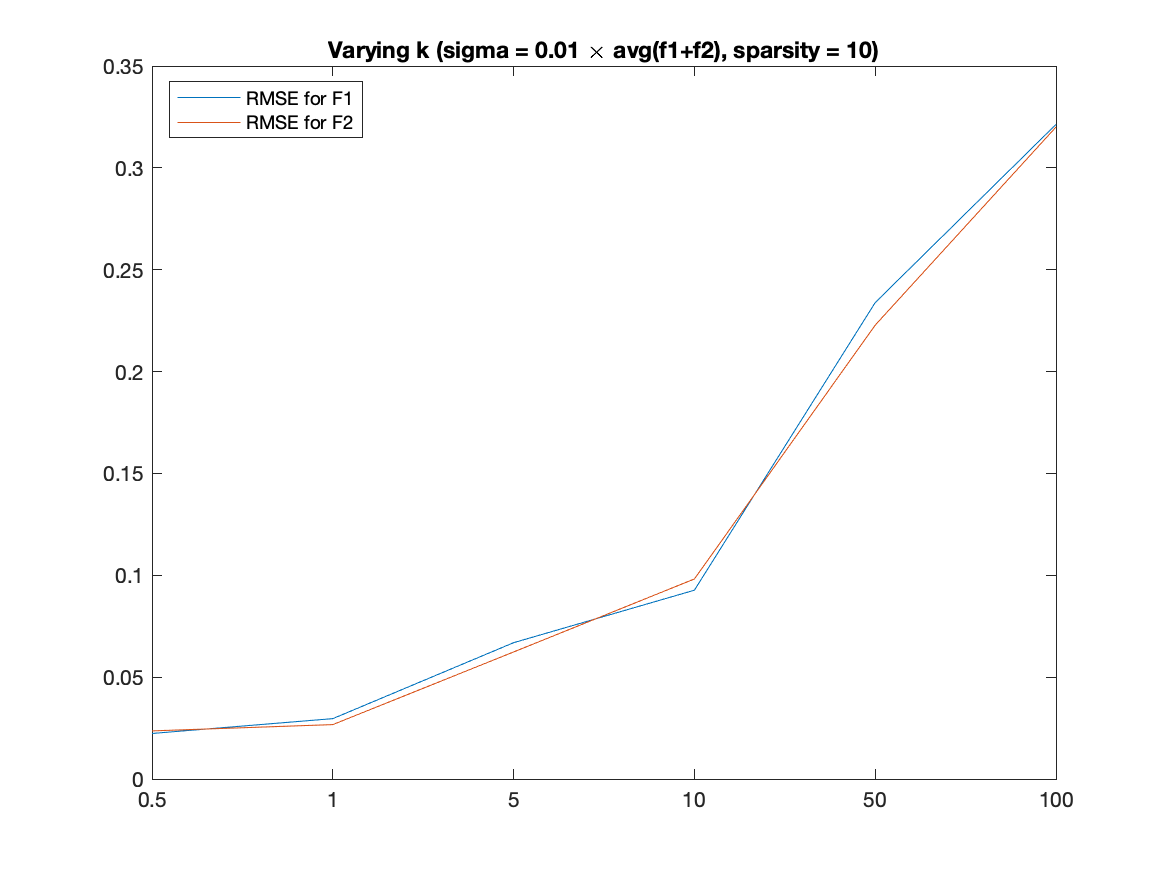
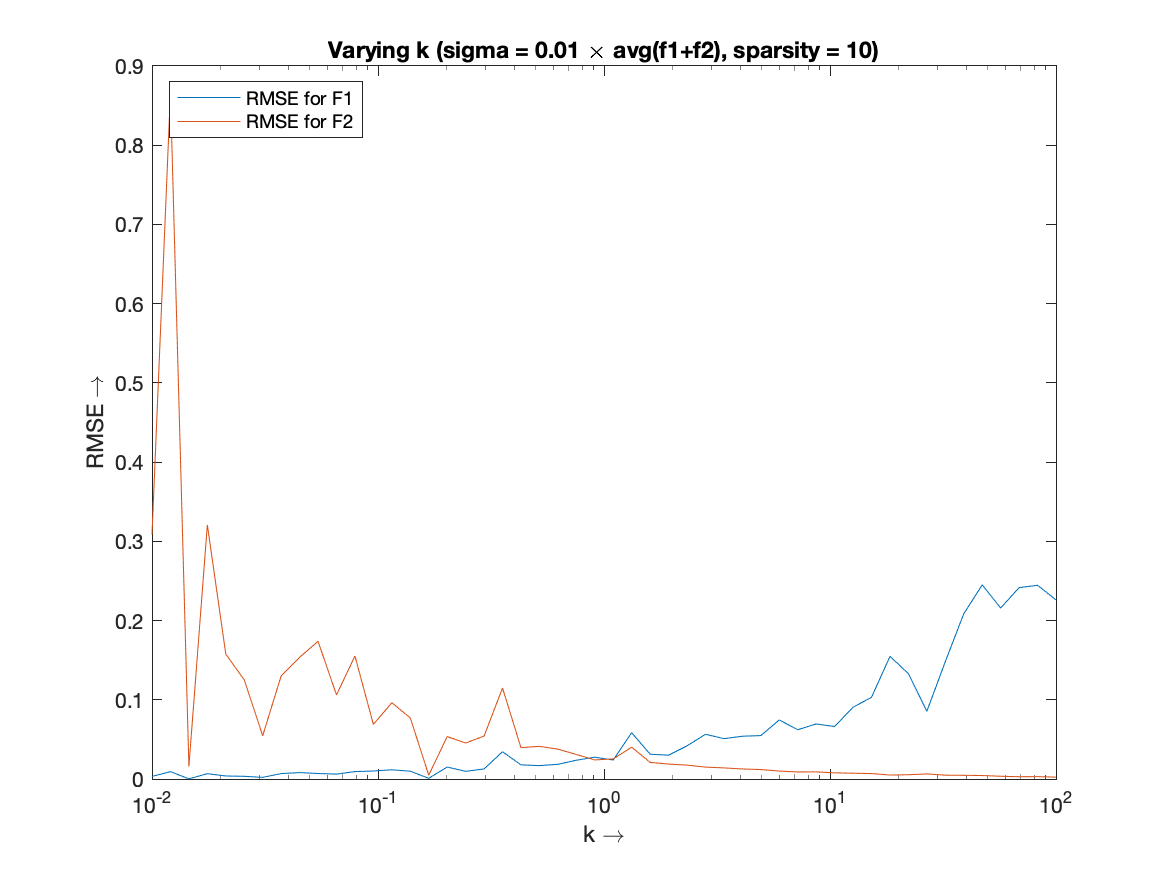
q1,2,5

diff --git a/4/HW4/q1.m b/4/HW4/q1.m
@@ -4,7 +4,7 @@ close all; clear; clc;
 k = 1;
 n = 256;
 spar = 16;
-eps = [1e3 1e2 1 1e-1 1e-2 1e-3 1e-4 1e-5 1e-6];
+eps = [1e3 1e2 1 1e-1 1e-2 1e-3 1e-4 1e-5];
 sigma=0.01;
 
 for e=eps
@@ -22,8 +22,7 @@ k=1;
 n=256;
 spar=10;
 eps = 1e-3;
-sigma=[0.0001, 0.0005, 0.001, 0.005, 0.01, 0.02];
-% sigma = 0.01:0.01:1;
+sigma = 0.01:0.01:0.5;
 rmse = zeros(6,2);
 
 i = 1;
@@ -37,16 +36,16 @@ end
 plot(rmse);
 title('Varying sigma, Fixed sparsity (=10)');
 legend('RMSE for F1', 'RMSE for F2', 'location', 'northwest');
-xticks([1 2 3 4 5 6]);
-xticklabels({'0.0001','0.0005','0.001','0.005','0.01','0.02'});
+xlabel("\times avg(f_1 + f_2) \rightarrow");
+ylabel("RMSE \rightarrow");
 saveas(gcf,'image1.png','png');
 
 
 %% (b) Varying \sigma fixed sparsity
 k=1;
 n=256;
-spar=[5, 10, 15, 20, 30, 50];
-% spar = 5:1:30;
+% spar=[5, 10, 15, 20, 30, 50];
+spar = 5:1:50;
 sigma=0.01;
 eps = 1e-3;
 rmse = zeros(6,2);
@@ -62,14 +61,14 @@ end
 plot(rmse);
 title('Varying sparsity, Fixed sigma (0.01 \times avg(f1+f2))');
 legend('RMSE for F1', 'RMSE for F2', 'location', 'northwest');
-xticks([1 2 3 4 5 6]);
-xticklabels({'5','10','15','20','30','50'});
+xlabel("Sparsity \rightarrow")
+ylabel("RMSE \rightarrow");
 saveas(gcf,'image2.png','png');
 
 
 
 %% (b) Varying k
-k=[0.5, 1, 5, 10, 50, 100];
+k = logspace(-2,2);
 n=256;
 spar=10;
 eps = 1e-3;
@@ -84,11 +83,9 @@ for s=k
     i = i+1;
 end
 
-plot(rmse);
+semilogx(k,rmse);
 title('Varying k (sigma = 0.01 \times avg(f1+f2), sparsity = 10)');
 legend('RMSE for F1', 'RMSE for F2', 'location', 'northwest');
-xticks([1 2 3 4 5 6]);
-xticklabels({'0.5','1','5','10','50','100'});
+ylabel("RMSE \rightarrow");
+xlabel("k \rightarrow")
 saveas(gcf,'image3.png','png');
-
-close all;

diff --git a/4/HW4/q1solve.m b/4/HW4/q1solve.m
@@ -17,7 +17,7 @@ function [fo1, fo2, rmse1, rmse2] = q1solve(n,spar,k,eps, sigma_k)
     
     % Generating noise
     sigma = sigma_k*mean(f1+f2,'all');
-    gm = gmdistribution(0,sigma);
+    gm = gmdistribution(0,abs(sigma));
     eta = random(gm,n);
     
     

diff --git a/4/HW4/report.md b/4/HW4/report.md
@@ -14,7 +14,7 @@
 
 **Varying $\sigma$ and fixed sparsity: **
 
-Here, x-axis has the factor k. Where $\sigma = k \times avg(f_1+f_2)$
+Here, x-axis has the factor $\tau$. Where $\sigma = \tau \times avg(f_1+f_2)$
 
 <img src="images/image1.png" style="zoom:40%;"/>
 
@@ -33,6 +33,80 @@ Here, x-axis has the factor k. Where $\sigma = k \times avg(f_1+f_2)$
 
 
 ### Q2
+
+Paper: [CoSaMP: Iterative signal recovery from incomplete and inaccurate samples](https://arxiv.org/abs/0803.2392)
+
+Author: [D. Needell](https://arxiv.org/search/math?searchtype=author&query=Needell%2C+D), [J. A. Tropp](https://arxiv.org/search/math?searchtype=author&query=Tropp%2C+J+A)
+
+Journal reference: Appl. Comput. Harmon. Anal., Vol. 26, pp. 301-321, 2008
+
+
+
+#### Algorithm 
+
+-----
+
+**CoSaMP($\Phi, u, s$)**
+
+**Input**: Sampling matrix $\phi$, noisy sample vector $u$, sparsity level $s$.
+
+**Output**: An s-sparse approximation $a$ of the target signal
+
+1. $a^0 \gets 0\\$                                                        // Initial approximation
+
+2. $v \gets u\\$                                                         // Current samples = input samples
+
+3. $k \gets 0\\$
+
+4. **repeat**
+
+   1. $k \gets k + 1$
+   2. $y \gets \Phi^*v$ 											// Form signal proxy
+   3. $\Omega \gets supp(y_{2s})$ 				                // Identify large components
+   4. $T \gets \Omega \cup supp(a^{k-1})$			           // Merge supports
+   5. $b|_T \gets \Phi^\dagger_T u$					                    // Signal estimation by least-squares
+   6. $b|_{T^c} \gets 0$
+   7. $a \gets b_s$												// Prune to obtain next approx
+   8. $v \gets u - \Phi a^k$								     // Update current samples
+
+   **until** haling criterion *true*
+
+-----
+
+
+
+<u>Def.</u> *quasi-norm*: 
+$$
+||x||_0 = |supp(x)| = |\{j : x_j \neq 0\}|
+$$
+<u>Def.</u> 
+$$
+x|_T = x_i\ \text{if}\ i \in T \ \text{else}\ 0
+$$
+$x|_T$ Is treated as an element of the vector space $\C^T$. And the restriction $\Phi_T$ of the sampling matrix $\Phi$ is defined as the column sub matrix whose columns are listed in the set $T$.
+
+<u>Def.</u> Pseudo inverse:
+$$
+A^\dagger = (A^* A)^{-1} A^*
+$$
+
+
+
+**CoSaMP** uses an approach inspired by the restricted isometry property. The sampling matrix $\bold \Phi$ has restricted isometry constant $\delta_s \ll 1$. For an s-sparse signal $x$, the vector $\bold{y = \Phi^*\Phi x}$ serves as a proxy for the signal because the energy in each set of s components of **y** approximates the energy in the corresponding s components of x. In particular, the largest s entries of the proxy y point toward the largest s entries of the signal x. Since the samples have the form $\bold{u= \Phi x}$, we can obtain the proxy just by applying the matrix $\Phi^*$ to the samples.
+
+
+
+
+
+-----
+
+**Theorem:** (CoSaMP). *Suppose that $\Phi$ is an $m \times N$ sampling matrix with RIC $\delta_{2s} \leq c$. Let $\bold{u = \Phi x + e}$ be a vector of samples of an arbitrary signal, contaminated with arbitrary noise. For a given precision parameter $\eta$, the algorithm* CoSaMP *produces a 2s-sparse approximation **a** that satisfies*
+$$
+||\bold x - \bold a||_2 \leq C \cdot \text{max} \bigg \{\eta, \frac{1}{\sqrt {s}} || \bold{x - x_s}||_1 + ||\bold e||_2 \bigg\}
+$$
+*Where $\bold{x_s}$ is a best s-sparse approximation to $\bold x$. The running time is $\mathcal{O}(\mathscr L \cdot \log(||\bold x||_2/\eta))$, where $\mathscr L$ bound the cost of a matrix-vector multiply with $\bold \Phi$ or* $\bold \Phi^*$ *The working storage use is $\mathcal{O}(N)$*
+
+-----
 
 
 
